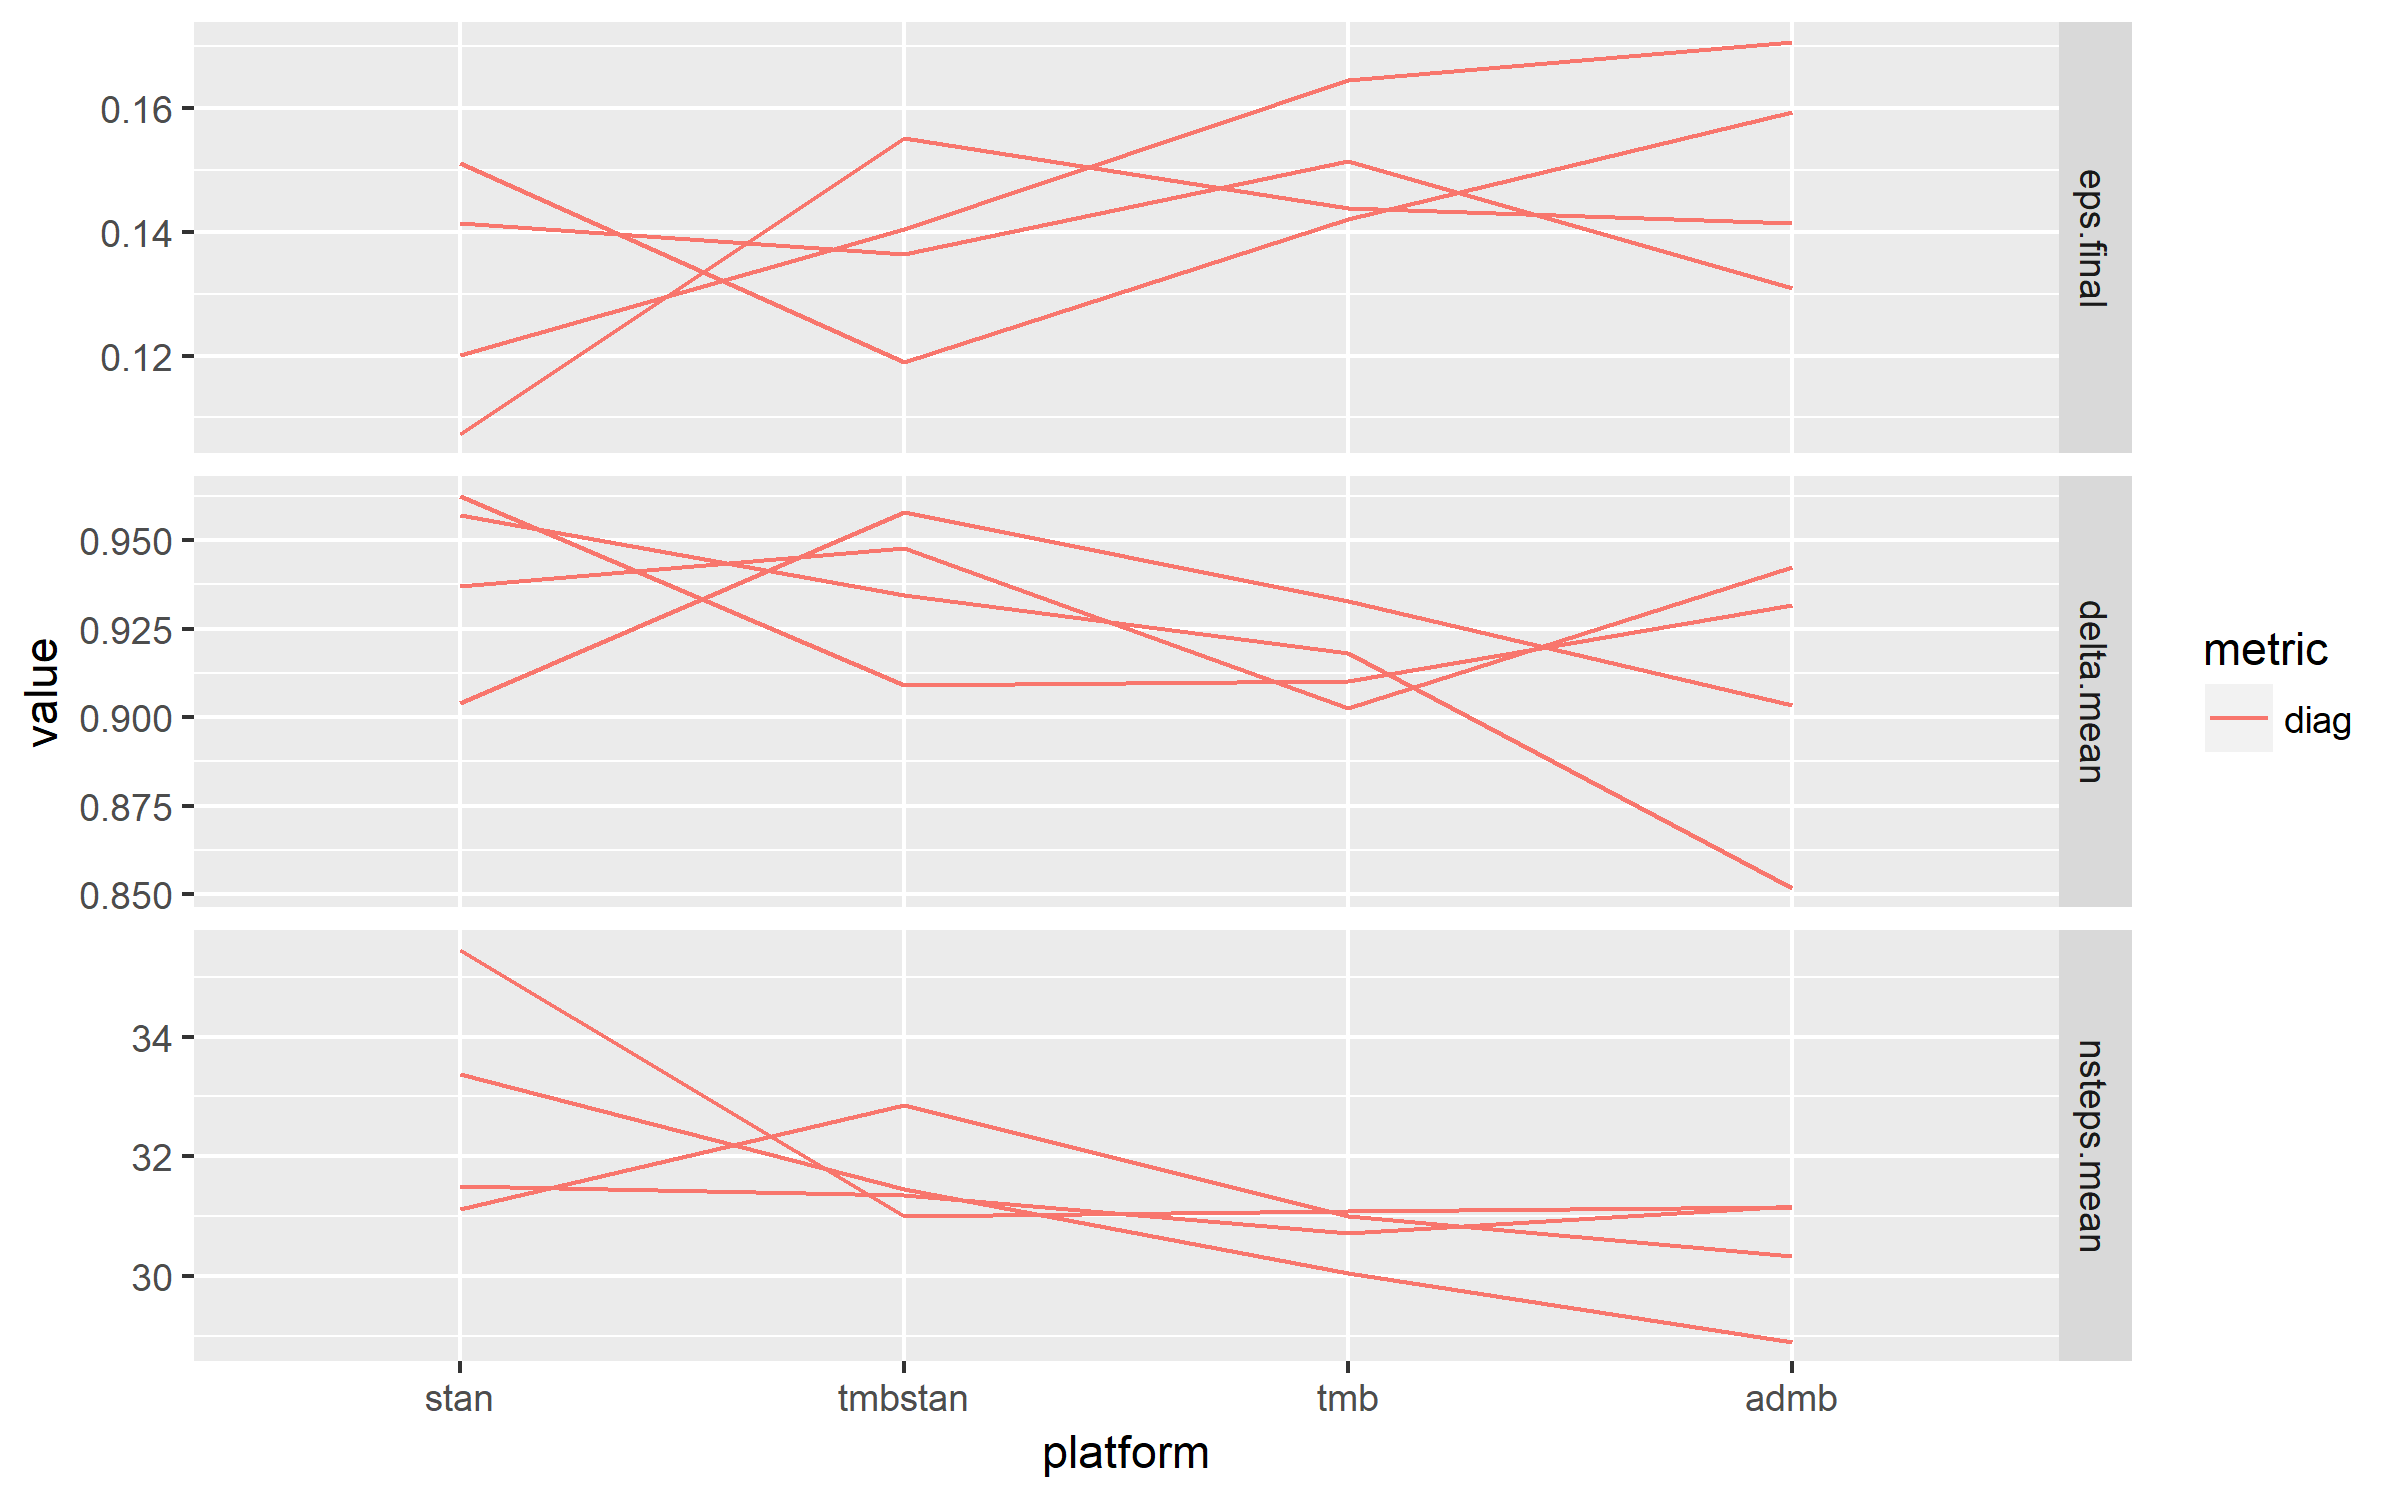
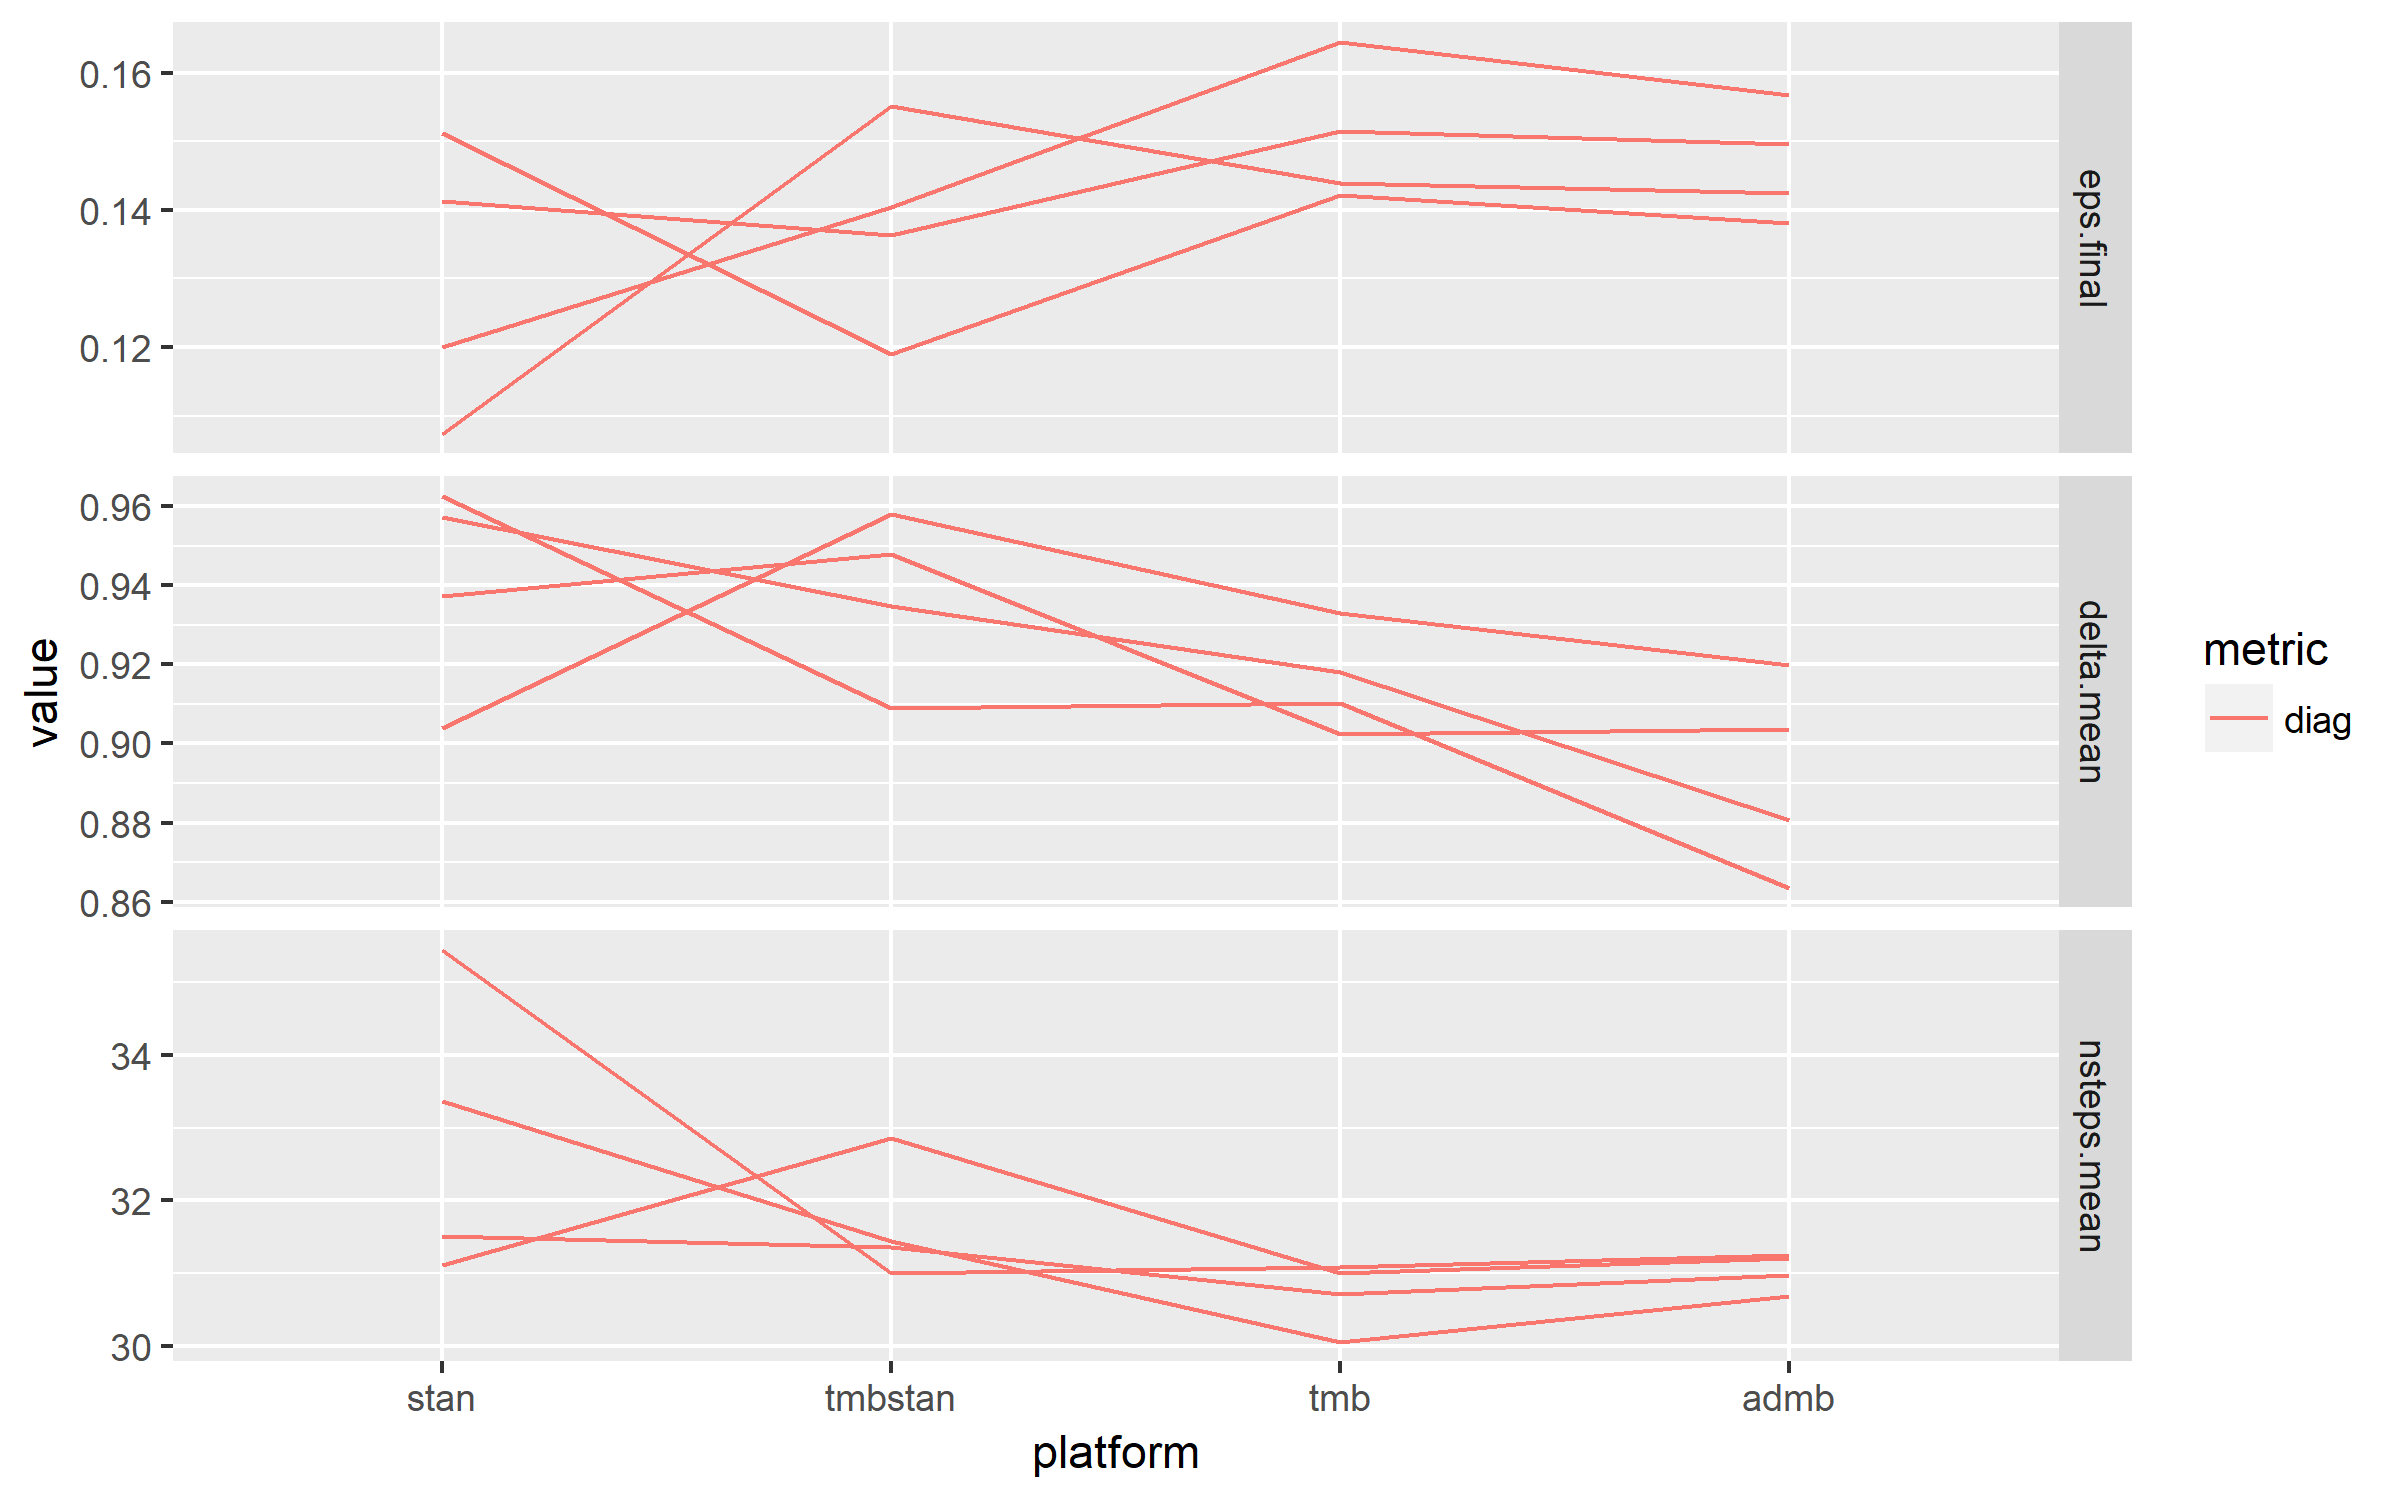
Rerun growth models

diff --git a/models/growth/admb/growth.cpp b/models/growth/admb/growth.cpp
@@ -42,7 +42,7 @@ model_parameters::model_parameters(int sz,int argc,char * argv[]) :
  model_data(argc,argv) , function_minimizer(sz)
 {
   initializationfunction();
-  delta.allocate(.5,5,"delta");
+  delta.allocate(0,5,"delta");
   sigma_obs.allocate("sigma_obs");
   logLinf_mean.allocate("logLinf_mean");
   logk_mean.allocate("logk_mean");
